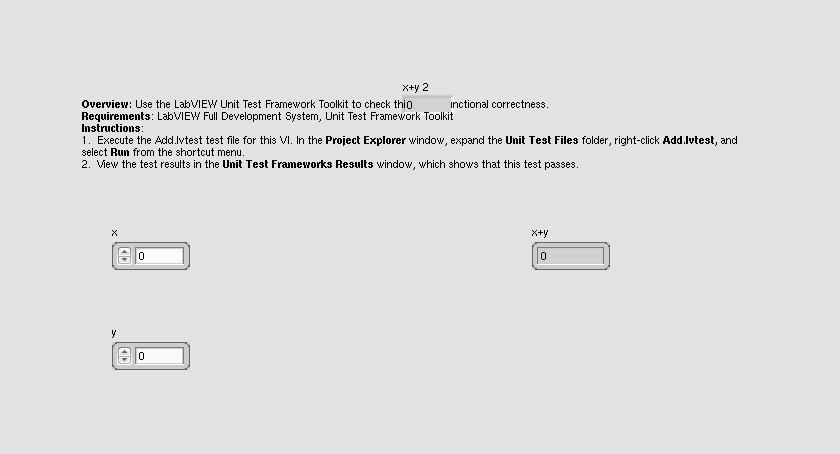
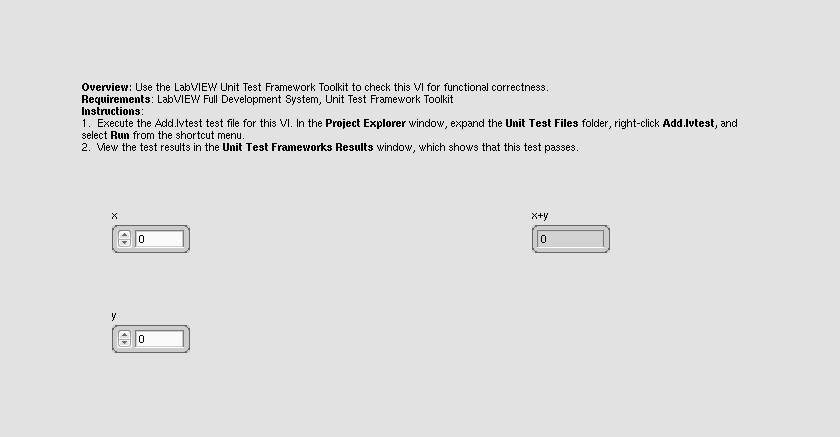
Publish to GitHub Pages

diff --git a/vidiff/pr-5/linux/vidiff/SampleVIs-Add.vi/index.html b/vidiff/pr-5/linux/vidiff/SampleVIs-Add.vi/index.html
@@ -4,7 +4,7 @@
 <body>
 <div class="report">
 <h1 class="report-title">LabVIEW VI Comparison Report</h1>
-<p class="generation-time">01:56:09 11/26/2026</p>
+<p class="generation-time">18:45:34 11/26/2026</p>
 <div class="compared-VIs">
 <details><summary class="difference-heading"><div class="dropdown-left">First VI: /workspace-base/SampleVIs/Add.vi</div><div class="dropdown-right">Second VI: /workspace/SampleVIs/Add.vi</div></summary>
 <table class="difference"><tr class="compared-vi-image-captions"><td class="compared-vi-image-caption">Front Panel Overview</td></tr>
@@ -29,35 +29,6 @@
 </ul>
 </div>
 <h2 class="section-header">Detailed Information</h2>
-<details open>
-
-<summary class="difference-heading">1. Block Diagram objects</summary>
-<table class="difference"><tr class="compared-vi-image-captions"><td class="compared-vi-image-caption">/workspace-base/SampleVIs/Add.vi</td><td class="difference-divider"></td><td class="compared-vi-image-caption">/workspace/SampleVIs/Add.vi</td></tr><tr class="compared-images"><td class="diff-image">
-
-<img class="difference-image" src="index_files/0_0_0_95_1.png" alt="index_files/0_0_0_95_1.png">
-</td><td class="difference-divider"></td><td class="diff-image">
-
-<img class="difference-image" src="index_files/0_0_0_95_2.png" alt="index_files/0_0_0_95_2.png">
-</td></tr></table>
-<ol class="detailed-description-list" type="A">
-<li class="diff-detail">Front Panel Terminal "x+y 2" - added at (357,259)</li>
-<li class="diff-detail">wiring changes</li>
-</ol>
-</details>
-<details open>
-
-<summary class="difference-heading">2. Front Panel objects</summary>
-<table class="difference"><tr class="compared-vi-image-captions"><td class="compared-vi-image-caption">/workspace-base/SampleVIs/Add.vi</td><td class="difference-divider"></td><td class="compared-vi-image-caption">/workspace/SampleVIs/Add.vi</td></tr><tr class="compared-images"><td class="diff-image">
-
-<img class="difference-image" src="index_files/1_0_0_76_1.png" alt="index_files/1_0_0_76_1.png">
-</td><td class="difference-divider"></td><td class="diff-image">
-
-<img class="difference-image" src="index_files/1_0_0_76_2.png" alt="index_files/1_0_0_76_2.png">
-</td></tr></table>
-<ol class="detailed-description-list" type="A">
-<li class="diff-detail">Numeric "x+y 2" - added at (371,17)</li>
-</ol>
-</details>
 </div>
 </body>
 </html>
